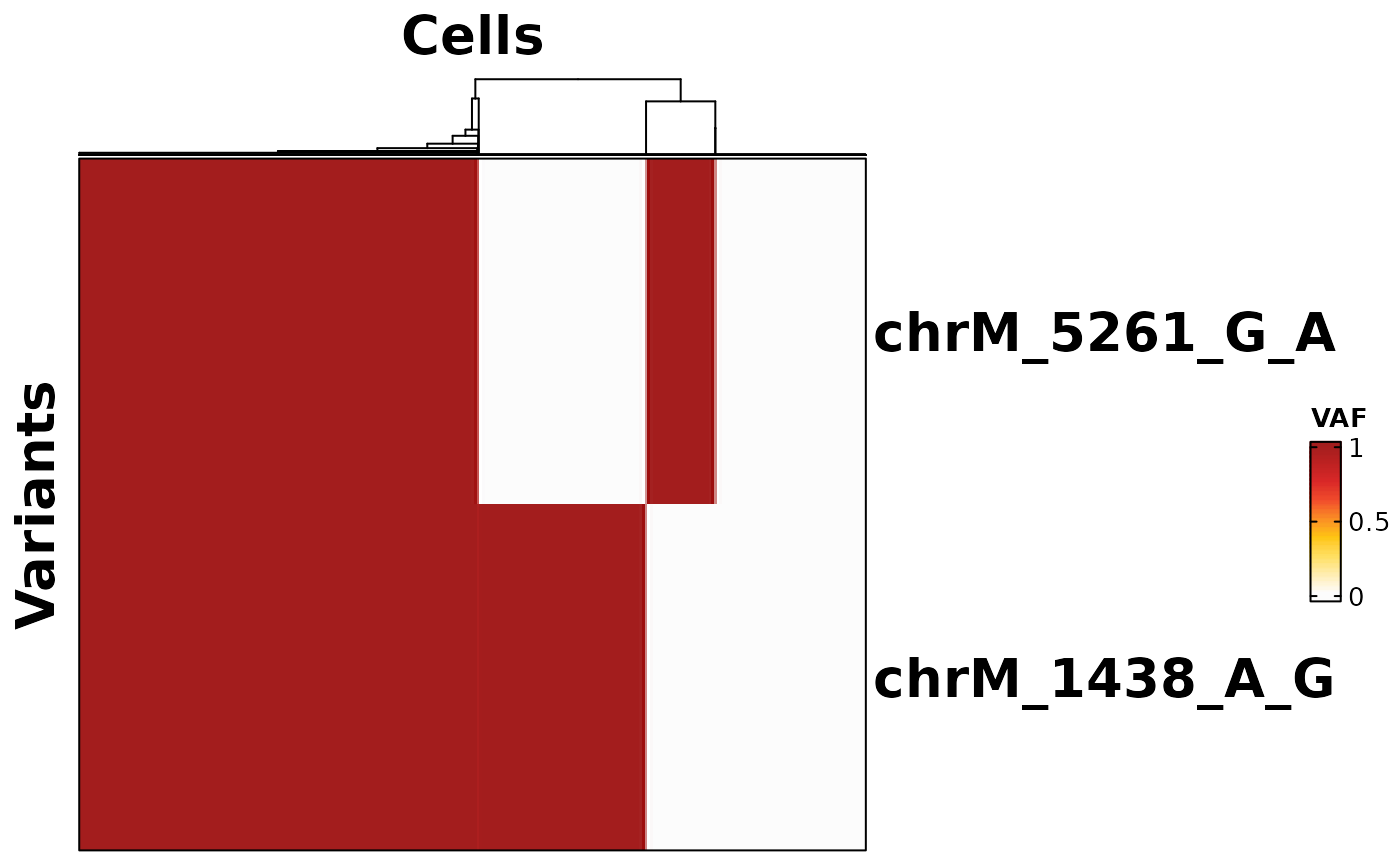
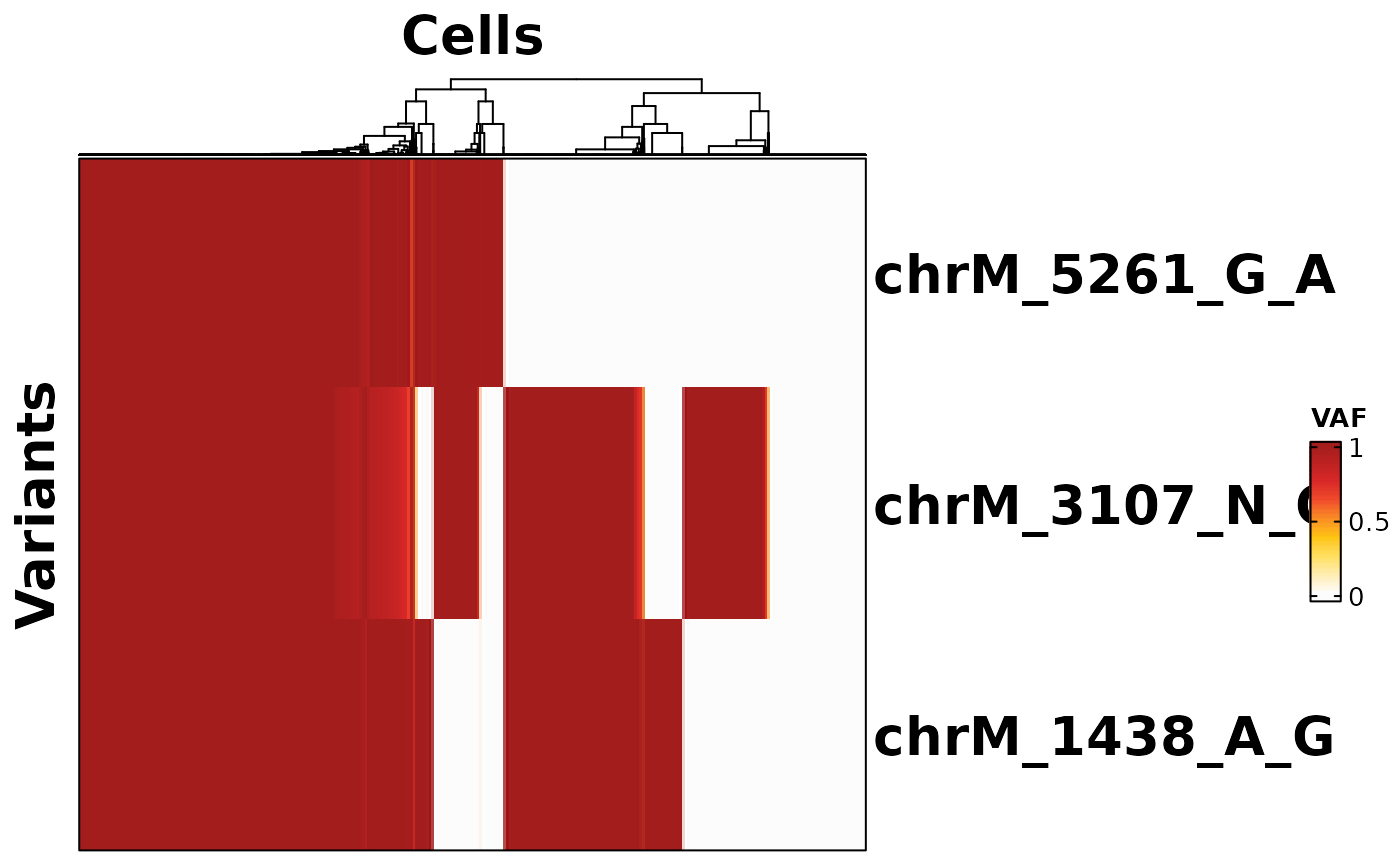
Added new Tresholding method and updated vignette.

diff --git a/docs/articles/SiGURD.html b/docs/articles/SiGURD.html
@@ -26,7 +26,7 @@
     
     <a class="navbar-brand me-2" href="../index.html">sigurd</a>
 
-    <small class="nav-text text-muted me-auto" data-bs-toggle="tooltip" data-bs-placement="bottom" title="">0.2.14</small>
+    <small class="nav-text text-muted me-auto" data-bs-toggle="tooltip" data-bs-placement="bottom" title="">0.2.15</small>
 
     
     <button class="navbar-toggler" type="button" data-bs-toggle="collapse" data-bs-target="#navbar" aria-controls="navbar" aria-expanded="false" aria-label="Toggle navigation">
@@ -79,7 +79,7 @@ Aachen University, Aachen, 52074 Germany<br><div class="d-none name"><code>SiGUR
 <span><span class="fu"><a href="https://rdrr.io/r/base/message.html" class="external-link">suppressPackageStartupMessages</a></span><span class="op">(</span><span class="kw"><a href="https://rdrr.io/r/base/library.html" class="external-link">require</a></span><span class="op">(</span><span class="va"><a href="https://bioconductor.org/packages/SummarizedExperiment" class="external-link">SummarizedExperiment</a></span><span class="op">)</span><span class="op">)</span></span>
 <span><span class="fu"><a href="https://rdrr.io/r/base/message.html" class="external-link">suppressPackageStartupMessages</a></span><span class="op">(</span><span class="kw"><a href="https://rdrr.io/r/base/library.html" class="external-link">require</a></span><span class="op">(</span><span class="va">VariantAnnotation</span><span class="op">)</span><span class="op">)</span></span></code></pre></div>
 <p><strong>R version</strong>: R version 4.1.2 (2021-11-01)</p>
-<p><strong>Package version</strong>: 0.2.14</p>
+<p><strong>Package version</strong>: 0.2.15</p>
 <div class="section level2">
 <h2 id="your-input-file-">Your input file.<a class="anchor" aria-label="anchor" href="#your-input-file-"></a>
 </h2>
@@ -276,28 +276,37 @@ variants. - Amplicon_MT: amplicon data analysed for MT variants.</p>
 <span><span class="co">## [1] "We transform the sparse matrices to matrices, so we can calculate the fraction."</span></span>
 <span><span class="co">## [1] "We generate a SummarizedExperiment object containing the fraction and the consensus matrices."</span></span></code></pre>
 <div class="sourceCode" id="cb14"><pre class="downlit sourceCode r">
-<code class="sourceCode R"><span><span class="va">Sample1_scRNAseq_MT</span> <span class="op">&lt;-</span> <span class="fu"><a href="../reference/LoadingVarTrix_typewise.html">LoadingVarTrix_typewise</a></span><span class="op">(</span>samples_file <span class="op">=</span> <span class="va">sample_path</span>, vcf_path <span class="op">=</span> <span class="va">vcf_path_mt</span>, patient <span class="op">=</span> <span class="st">"Sample1"</span>, type_use <span class="op">=</span> <span class="st">"scRNAseq_MT"</span><span class="op">)</span></span></code></pre></div>
+<code class="sourceCode R"><span><span class="va">Sample1_scRNAseq_MT</span> <span class="op">&lt;-</span> <span class="fu"><a href="../reference/LoadingMAEGATK_typewise.html">LoadingMAEGATK_typewise</a></span><span class="op">(</span>samples_file <span class="op">=</span> <span class="va">sample_path</span>, patient <span class="op">=</span> <span class="st">"Sample1"</span>, type_use <span class="op">=</span> <span class="st">"scRNAseq_MT"</span><span class="op">)</span></span></code></pre></div>
 <pre><code><span><span class="co">## [1] "Loading the data for patient Sample1."</span></span>
 <span><span class="co">## [1] "We read in the samples file."</span></span>
 <span><span class="co">## [1] "We subset to the patient of interest."</span></span>
 <span><span class="co">## [1] "We get the different samples."</span></span>
-<span><span class="co">## [1] "We load the SNV files."</span></span>
-<span><span class="co">## [1] "We read the variants."</span></span>
 <span><span class="co">## [1] "We read in the cell barcodes output by CellRanger as a list."</span></span>
-<span><span class="co">## [1] "We read in the vcf file."</span></span>
-<span><span class="co">## [1] "We generate more accessible names."</span></span>
-<span><span class="co">## [1] "We read in the different sparse genotype matrices as a list."</span></span>
-<span><span class="co">## [1] "We have a slot per type of input data."</span></span>
+<span><span class="co">## [1] "We load the MAEGATK output files."</span></span>
 <span><span class="co">## [1] "Loading sample 1 of 2"</span></span>
 <span><span class="co">## [1] "Loading sample 2 of 2"</span></span>
-<span><span class="co">## [1] "We generate a large data.frame of all the snv matrices."</span></span>
-<span><span class="co">## [1] "We remove the matrix lists."</span></span>
-<span><span class="co">## [1] "We remove variants, that are not detected in at least 2 cells."</span></span>
+<span><span class="co">## [1] "We merge the samples."</span></span>
+<span><span class="co">## [1] "We get the allele frequency."</span></span>
+<span><span class="co">## [1] "We get the coverage information."</span></span>
+<span><span class="co">## [1] "We get the number of alternative reads per variant."</span></span>
+<span><span class="co">## [1] "We get the quality information."</span></span>
+<span><span class="co">## [1] "We get the number of reference reads."</span></span>
+<span><span class="co">## [1] "Calculating the strand concordance."</span></span>
+<span><span class="co">## [1] "We calculate the consensus information."</span></span>
+<span><span class="co">## [1] "We get the read information per position."</span></span>
+<span><span class="co">## [1] "We add the values together."</span></span>
+<span><span class="co">## [1] "We get the position according to their reference base."</span></span>
+<span><span class="co">## [1] "Now, we check the consensus value for all positions with the same reference base."</span></span>
+<span><span class="co">## [1] "A"</span></span>
+<span><span class="co">## [1] "C"</span></span>
+<span><span class="co">## [1] "G"</span></span>
+<span><span class="co">## [1] "T"</span></span>
+<span><span class="co">## [1] "N"</span></span>
+<span><span class="co">## [1] "Binding the matrices."</span></span>
+<span><span class="co">## [1] "We perform some filtering to reduce the memory needed."</span></span>
+<span><span class="co">## [1] "We remove variants, which are not covered in at least 2 cells ."</span></span>
 <span><span class="co">## [1] "We remove cells that are always NoCall."</span></span>
-<span><span class="co">## [1] "scRNAseq_MT Variants: 49081"</span></span>
-<span><span class="co">## [1] "scRNAseq_MT Cells: 10277"</span></span>
-<span><span class="co">## [1] "We transform the sparse matrices to matrices, so we can calculate the fraction."</span></span>
-<span><span class="co">## [1] "We generate a SummarizedExperiment object containing the fraction and the consensus matrices."</span></span></code></pre>
+<span><span class="co">## [1] "We add the information to the merged matrices."</span></span></code></pre>
 <div class="sourceCode" id="cb16"><pre class="downlit sourceCode r">
 <code class="sourceCode R"><span><span class="va">Sample1_combined</span> <span class="op">&lt;-</span> <span class="fu"><a href="../reference/CombineSEobjects.html">CombineSEobjects</a></span><span class="op">(</span>se_somatic <span class="op">=</span> <span class="va">Sample1_scRNAseq_Somatic</span>, se_MT <span class="op">=</span> <span class="va">Sample1_scRNAseq_MT</span>, suffixes <span class="op">=</span> <span class="fu"><a href="https://rdrr.io/r/base/c.html" class="external-link">c</a></span><span class="op">(</span><span class="st">"_somatic"</span>, <span class="st">"_MT"</span><span class="op">)</span><span class="op">)</span></span>
 <span><span class="fu"><a href="https://rdrr.io/r/base/rm.html" class="external-link">rm</a></span><span class="op">(</span><span class="va">Sample1_scRNAseq_Somatic</span>, <span class="va">Sample1_scRNAseq_MT</span><span class="op">)</span></span>

diff --git a/docs/reference/VariantQuantileThresholding.html b/docs/reference/VariantQuantileThresholding.html
@@ -1,6 +1,10 @@
 <!DOCTYPE html>
 <!-- Generated by pkgdown: do not edit by hand --><html lang="en"><head><meta http-equiv="Content-Type" content="text/html; charset=UTF-8"><meta charset="utf-8"><meta http-equiv="X-UA-Compatible" content="IE=edge"><meta name="viewport" content="width=device-width, initial-scale=1, shrink-to-fit=no"><meta name="description" content="We get variants of interest using the quantile thresholding.
+If you use top_cells and top_VAF, you have to only supply one quantil value (quantiles = 0.9, thresholds = 0).
+This function is adapted from the Peter van Galen.
 Source: https://github.com/petervangalen/MAESTER-2021"><title>VariantQuantileThresholding — VariantQuantileThresholding • sigurd</title><script src="../deps/jquery-3.6.0/jquery-3.6.0.min.js"></script><meta name="viewport" content="width=device-width, initial-scale=1, shrink-to-fit=no"><link href="../deps/bootstrap-5.2.2/bootstrap.min.css" rel="stylesheet"><script src="../deps/bootstrap-5.2.2/bootstrap.bundle.min.js"></script><!-- Font Awesome icons --><link rel="stylesheet" href="https://cdnjs.cloudflare.com/ajax/libs/font-awesome/5.12.1/css/all.min.css" integrity="sha256-mmgLkCYLUQbXn0B1SRqzHar6dCnv9oZFPEC1g1cwlkk=" crossorigin="anonymous"><link rel="stylesheet" href="https://cdnjs.cloudflare.com/ajax/libs/font-awesome/5.12.1/css/v4-shims.min.css" integrity="sha256-wZjR52fzng1pJHwx4aV2AO3yyTOXrcDW7jBpJtTwVxw=" crossorigin="anonymous"><!-- bootstrap-toc --><script src="https://cdn.jsdelivr.net/gh/afeld/bootstrap-toc@v1.0.1/dist/bootstrap-toc.min.js" integrity="sha256-4veVQbu7//Lk5TSmc7YV48MxtMy98e26cf5MrgZYnwo=" crossorigin="anonymous"></script><!-- headroom.js --><script src="https://cdnjs.cloudflare.com/ajax/libs/headroom/0.11.0/headroom.min.js" integrity="sha256-AsUX4SJE1+yuDu5+mAVzJbuYNPHj/WroHuZ8Ir/CkE0=" crossorigin="anonymous"></script><script src="https://cdnjs.cloudflare.com/ajax/libs/headroom/0.11.0/jQuery.headroom.min.js" integrity="sha256-ZX/yNShbjqsohH1k95liqY9Gd8uOiE1S4vZc+9KQ1K4=" crossorigin="anonymous"></script><!-- clipboard.js --><script src="https://cdnjs.cloudflare.com/ajax/libs/clipboard.js/2.0.6/clipboard.min.js" integrity="sha256-inc5kl9MA1hkeYUt+EC3BhlIgyp/2jDIyBLS6k3UxPI=" crossorigin="anonymous"></script><!-- search --><script src="https://cdnjs.cloudflare.com/ajax/libs/fuse.js/6.4.6/fuse.js" integrity="sha512-zv6Ywkjyktsohkbp9bb45V6tEMoWhzFzXis+LrMehmJZZSys19Yxf1dopHx7WzIKxr5tK2dVcYmaCk2uqdjF4A==" crossorigin="anonymous"></script><script src="https://cdnjs.cloudflare.com/ajax/libs/autocomplete.js/0.38.0/autocomplete.jquery.min.js" integrity="sha512-GU9ayf+66Xx2TmpxqJpliWbT5PiGYxpaG8rfnBEk1LL8l1KGkRShhngwdXK1UgqhAzWpZHSiYPc09/NwDQIGyg==" crossorigin="anonymous"></script><script src="https://cdnjs.cloudflare.com/ajax/libs/mark.js/8.11.1/mark.min.js" integrity="sha512-5CYOlHXGh6QpOFA/TeTylKLWfB3ftPsde7AnmhuitiTX4K5SqCLBeKro6sPS8ilsz1Q4NRx3v8Ko2IBiszzdww==" crossorigin="anonymous"></script><!-- pkgdown --><script src="../pkgdown.js"></script><meta property="og:title" content="VariantQuantileThresholding — VariantQuantileThresholding"><meta property="og:description" content="We get variants of interest using the quantile thresholding.
+If you use top_cells and top_VAF, you have to only supply one quantil value (quantiles = 0.9, thresholds = 0).
+This function is adapted from the Peter van Galen.
 Source: https://github.com/petervangalen/MAESTER-2021"><!-- mathjax --><script src="https://cdnjs.cloudflare.com/ajax/libs/mathjax/2.7.5/MathJax.js" integrity="sha256-nvJJv9wWKEm88qvoQl9ekL2J+k/RWIsaSScxxlsrv8k=" crossorigin="anonymous"></script><script src="https://cdnjs.cloudflare.com/ajax/libs/mathjax/2.7.5/config/TeX-AMS-MML_HTMLorMML.js" integrity="sha256-84DKXVJXs0/F8OTMzX4UR909+jtl4G7SPypPavF+GfA=" crossorigin="anonymous"></script><!--[if lt IE 9]>
 <script src="https://oss.maxcdn.com/html5shiv/3.7.3/html5shiv.min.js"></script>
 <script src="https://oss.maxcdn.com/respond/1.4.2/respond.min.js"></script>
@@ -12,7 +16,7 @@ Source: https://github.com/petervangalen/MAESTER-2021"><!-- mathjax --><script s
     
     <a class="navbar-brand me-2" href="../index.html">sigurd</a>
 
-    <small class="nav-text text-muted me-auto" data-bs-toggle="tooltip" data-bs-placement="bottom" title="">0.2.14</small>
+    <small class="nav-text text-muted me-auto" data-bs-toggle="tooltip" data-bs-placement="bottom" title="">0.2.15</small>
 
     
     <button class="navbar-toggler" type="button" data-bs-toggle="collapse" data-bs-target="#navbar" aria-controls="navbar" aria-expanded="false" aria-label="Toggle navigation">
@@ -46,6 +50,8 @@ Source: https://github.com/petervangalen/MAESTER-2021"><!-- mathjax --><script s
 
     <div class="ref-description section level2">
     <p>We get variants of interest using the quantile thresholding.
+If you use top_cells and top_VAF, you have to only supply one quantil value (quantiles = 0.9, thresholds = 0).
+This function is adapted from the Peter van Galen.
 Source: https://github.com/petervangalen/MAESTER-2021</p>
     </div>
 
@@ -55,7 +61,10 @@ Source: https://github.com/petervangalen/MAESTER-2021</p>
 <span>  <span class="va">SE</span>,</span>
 <span>  min_coverage <span class="op">=</span> <span class="fl">2</span>,</span>
 <span>  quantiles <span class="op">=</span> <span class="fu"><a href="https://rdrr.io/r/base/c.html" class="external-link">c</a></span><span class="op">(</span><span class="fl">0.1</span>, <span class="fl">0.9</span><span class="op">)</span>,</span>
-<span>  thresholds <span class="op">=</span> <span class="fu"><a href="https://rdrr.io/r/base/c.html" class="external-link">c</a></span><span class="op">(</span><span class="fl">0.1</span>, <span class="fl">0.9</span><span class="op">)</span></span>
+<span>  thresholds <span class="op">=</span> <span class="fu"><a href="https://rdrr.io/r/base/c.html" class="external-link">c</a></span><span class="op">(</span><span class="fl">0.1</span>, <span class="fl">0.9</span><span class="op">)</span>,</span>
+<span>  top_cells <span class="op">=</span> <span class="cn">NULL</span>,</span>
+<span>  top_VAF <span class="op">=</span> <span class="cn">NULL</span>,</span>
+<span>  min_quality <span class="op">=</span> <span class="fl">30</span></span>
 <span><span class="op">)</span></span></code></pre></div>
     </div>
 
@@ -75,6 +84,18 @@ Source: https://github.com/petervangalen/MAESTER-2021</p>
 
 <dt>thresholds</dt>
 <dd><p>The VAF thresholds you want to use for the quantiles.</p></dd>
+
+
+<dt>top_cells</dt>
+<dd><p>The number of cells with at least top_VAF percent for a variant.</p></dd>
+
+
+<dt>top_VAF</dt>
+<dd><p>The VAF for the top cells.</p></dd>
+
+
+<dt>min_quality</dt>
+<dd><p>The minimum quality you want for the Variants of Interest. Can be ignored by setting it to NULL.</p></dd>
 
 </dl></div>
 

diff --git a/docs/authors.html b/docs/authors.html
@@ -10,7 +10,7 @@
     
     <a class="navbar-brand me-2" href="index.html">sigurd</a>
 
-    <small class="nav-text text-muted me-auto" data-bs-toggle="tooltip" data-bs-placement="bottom" title="">0.2.14</small>
+    <small class="nav-text text-muted me-auto" data-bs-toggle="tooltip" data-bs-placement="bottom" title="">0.2.15</small>
 
     
     <button class="navbar-toggler" type="button" data-bs-toggle="collapse" data-bs-target="#navbar" aria-controls="navbar" aria-expanded="false" aria-label="Toggle navigation">
@@ -59,13 +59,13 @@
 
       <p>Grasshoff M, Gesteira I (2023).
 <em>sigurd: Single cell Genotyping Using RNA Data</em>.
-R package version 0.2.14, <a href="https://costalab.github.io/sigurd/" class="external-link">https://costalab.github.io/sigurd/</a>. 
+R package version 0.2.15, <a href="https://costalab.github.io/sigurd/" class="external-link">https://costalab.github.io/sigurd/</a>. 
 </p>
       <pre>@Manual{,
   title = {sigurd: Single cell Genotyping Using RNA Data},
   author = {Martin Grasshoff and Ivan Costa Gesteira},
   year = {2023},
-  note = {R package version 0.2.14},
+  note = {R package version 0.2.15},
   url = {https://costalab.github.io/sigurd/},
 }</pre>
     </div>

diff --git a/docs/index.html b/docs/index.html
@@ -26,7 +26,7 @@
     
     <a class="navbar-brand me-2" href="index.html">sigurd</a>
 
-    <small class="nav-text text-muted me-auto" data-bs-toggle="tooltip" data-bs-placement="bottom" title="">0.2.14</small>
+    <small class="nav-text text-muted me-auto" data-bs-toggle="tooltip" data-bs-placement="bottom" title="">0.2.15</small>
 
     
     <button class="navbar-toggler" type="button" data-bs-toggle="collapse" data-bs-target="#navbar" aria-controls="navbar" aria-expanded="false" aria-label="Toggle navigation">
@@ -81,7 +81,7 @@ We employ a imputation approach that utilizes the correlation between mitochondr
 <span><span class="co"># vignette('sigurd')</span></span></code></pre>
 </div>
 <div class="section level1">
-<h1 id="current-features-v0214">Current Features v0.2.14<a class="anchor" aria-label="anchor" href="#current-features-v0214"></a>
+<h1 id="current-features-v0215">Current Features v0.2.15<a class="anchor" aria-label="anchor" href="#current-features-v0215"></a>
 </h1>
 <ul>
 <li>Loading data from VarTrix and MAEGATK.</li>

diff --git a/docs/reference/LoadingMAEGATK_typewise.html b/docs/reference/LoadingMAEGATK_typewise.html
@@ -16,7 +16,7 @@ This is hard coded and case insensitive."><!-- mathjax --><script src="https://c
     
     <a class="navbar-brand me-2" href="../index.html">sigurd</a>
 
-    <small class="nav-text text-muted me-auto" data-bs-toggle="tooltip" data-bs-placement="bottom" title="">0.2.14</small>
+    <small class="nav-text text-muted me-auto" data-bs-toggle="tooltip" data-bs-placement="bottom" title="">0.2.15</small>
 
     
     <button class="navbar-toggler" type="button" data-bs-toggle="collapse" data-bs-target="#navbar" aria-controls="navbar" aria-expanded="false" aria-label="Toggle navigation">

diff --git a/docs/reference/LoadingVarTrix_typewise.html b/docs/reference/LoadingVarTrix_typewise.html
@@ -22,7 +22,7 @@ This is hard coded and case insensitive."><!-- mathjax --><script src="https://c
     
     <a class="navbar-brand me-2" href="../index.html">sigurd</a>
 
-    <small class="nav-text text-muted me-auto" data-bs-toggle="tooltip" data-bs-placement="bottom" title="">0.2.14</small>
+    <small class="nav-text text-muted me-auto" data-bs-toggle="tooltip" data-bs-placement="bottom" title="">0.2.15</small>
 
     
     <button class="navbar-toggler" type="button" data-bs-toggle="collapse" data-bs-target="#navbar" aria-controls="navbar" aria-expanded="false" aria-label="Toggle navigation">

diff --git a/docs/reference/RowWiseSplit.html b/docs/reference/RowWiseSplit.html
@@ -14,7 +14,7 @@ We can then remove the NoCalls (no reads) from the individual vectors, further r
     
     <a class="navbar-brand me-2" href="../index.html">sigurd</a>
 
-    <small class="nav-text text-muted me-auto" data-bs-toggle="tooltip" data-bs-placement="bottom" title="">0.2.14</small>
+    <small class="nav-text text-muted me-auto" data-bs-toggle="tooltip" data-bs-placement="bottom" title="">0.2.15</small>
 
     
     <button class="navbar-toggler" type="button" data-bs-toggle="collapse" data-bs-target="#navbar" aria-controls="navbar" aria-expanded="false" aria-label="Toggle navigation">

diff --git a/docs/reference/SeparatingMatrixToList.html b/docs/reference/SeparatingMatrixToList.html
@@ -16,7 +16,7 @@ This function gets called by RowWiseSplit in return."><!-- mathjax --><script sr
     
     <a class="navbar-brand me-2" href="../index.html">sigurd</a>
 
-    <small class="nav-text text-muted me-auto" data-bs-toggle="tooltip" data-bs-placement="bottom" title="">0.2.14</small>
+    <small class="nav-text text-muted me-auto" data-bs-toggle="tooltip" data-bs-placement="bottom" title="">0.2.15</small>
 
     
     <button class="navbar-toggler" type="button" data-bs-toggle="collapse" data-bs-target="#navbar" aria-controls="navbar" aria-expanded="false" aria-label="Toggle navigation">

diff --git a/docs/reference/VariantBurden.html b/docs/reference/VariantBurden.html
@@ -12,7 +12,7 @@ We simply sum up the MAF values per cell."><!-- mathjax --><script src="https://
     
     <a class="navbar-brand me-2" href="../index.html">sigurd</a>
 
-    <small class="nav-text text-muted me-auto" data-bs-toggle="tooltip" data-bs-placement="bottom" title="">0.2.14</small>
+    <small class="nav-text text-muted me-auto" data-bs-toggle="tooltip" data-bs-placement="bottom" title="">0.2.15</small>
 
     
     <button class="navbar-toggler" type="button" data-bs-toggle="collapse" data-bs-target="#navbar" aria-controls="navbar" aria-expanded="false" aria-label="Toggle navigation">

diff --git a/docs/reference/VariantCloneSizeThresholding.html b/docs/reference/VariantCloneSizeThresholding.html
@@ -12,7 +12,7 @@ Source: https://github.com/petervangalen/MAESTER-2021"><!-- mathjax --><script s
     
     <a class="navbar-brand me-2" href="../index.html">sigurd</a>
 
-    <small class="nav-text text-muted me-auto" data-bs-toggle="tooltip" data-bs-placement="bottom" title="">0.2.14</small>
+    <small class="nav-text text-muted me-auto" data-bs-toggle="tooltip" data-bs-placement="bottom" title="">0.2.15</small>
 
     
     <button class="navbar-toggler" type="button" data-bs-toggle="collapse" data-bs-target="#navbar" aria-controls="navbar" aria-expanded="false" aria-label="Toggle navigation">

diff --git a/docs/reference/VariantWiseCorrelation.html b/docs/reference/VariantWiseCorrelation.html
@@ -12,7 +12,7 @@ This function calls CalculateCorrelationPValue to perform the actual correlation
     
     <a class="navbar-brand me-2" href="../index.html">sigurd</a>
 
-    <small class="nav-text text-muted me-auto" data-bs-toggle="tooltip" data-bs-placement="bottom" title="">0.2.14</small>
+    <small class="nav-text text-muted me-auto" data-bs-toggle="tooltip" data-bs-placement="bottom" title="">0.2.15</small>
 
     
     <button class="navbar-toggler" type="button" data-bs-toggle="collapse" data-bs-target="#navbar" aria-controls="navbar" aria-expanded="false" aria-label="Toggle navigation">

diff --git a/docs/reference/VariantWiseFisherTest.html b/docs/reference/VariantWiseFisherTest.html
@@ -12,7 +12,7 @@ This function calls CalculateFisherTestPValue to perform the actual testing."><!
     
     <a class="navbar-brand me-2" href="../index.html">sigurd</a>
 
-    <small class="nav-text text-muted me-auto" data-bs-toggle="tooltip" data-bs-placement="bottom" title="">0.2.14</small>
+    <small class="nav-text text-muted me-auto" data-bs-toggle="tooltip" data-bs-placement="bottom" title="">0.2.15</small>
 
     
     <button class="navbar-toggler" type="button" data-bs-toggle="collapse" data-bs-target="#navbar" aria-controls="navbar" aria-expanded="false" aria-label="Toggle navigation">
